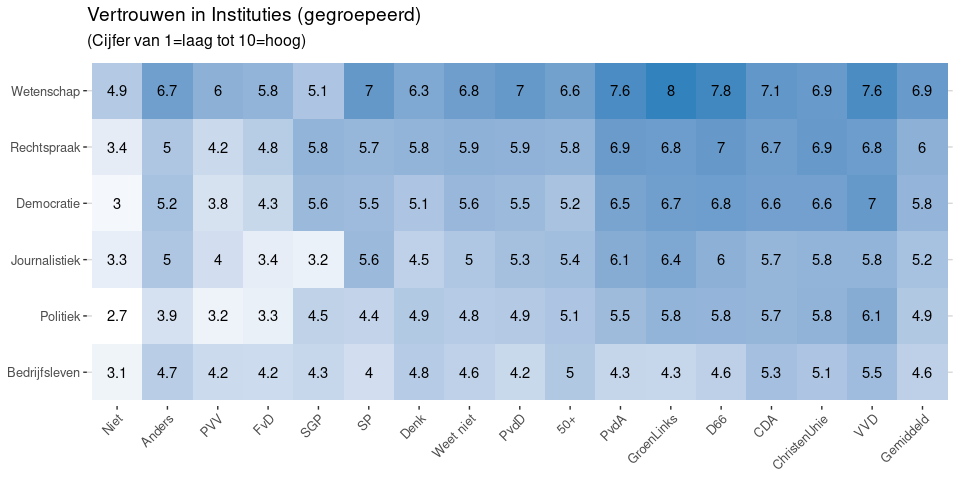
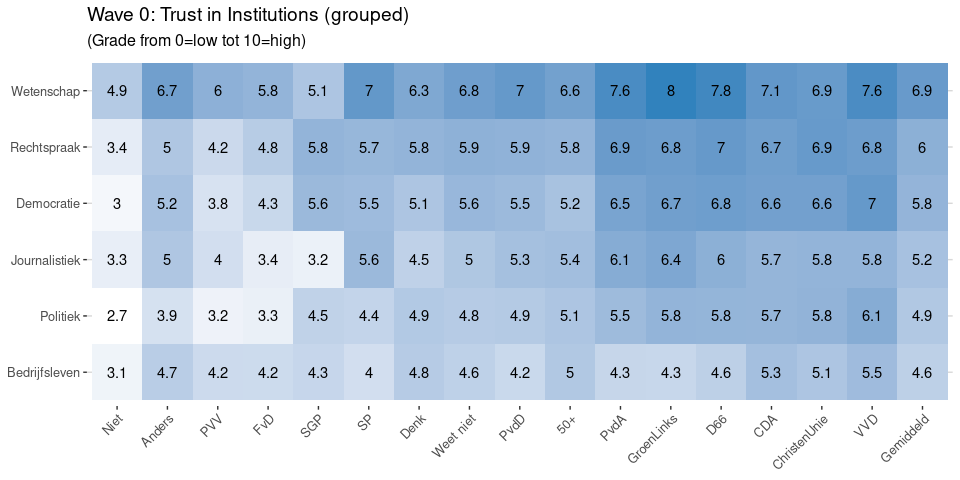
Update prewave report

Changed region(s): [[0.0938, 0.0, 0.4375, 0.125]]

diff --git a/docs/reports/prewave_exploration.md b/docs/reports/prewave_exploration.md
@@ -1,0 +1,48 @@
+VU 2021 Election Study: Exploration of media use and vote intention
+before the campaign
+================
+Wouter van Atteveldt, Nel Ruigrok, Mariken van der Velden
+
+  - [Media Use by Vote Intention](#media-use-by-vote-intention)
+  - [Trust in Media](#trust-in-media)
+  - [Trust in Institutions](#trust-in-institutions)
+      - [Trust in democracy](#trust-in-democracy)
+
+# Media Use by Vote Intention
+
+![](figures/wave0-media-party-1.png)<!-- -->Download data: [Wave 0:
+Stemintentie en
+mediagebruik](figures/Wave_0_Stemintentie_en_mediagebruik.csv)
+
+![](figures/wave0-media-party-specific-1.png)<!-- -->Download data:
+[Wave 0: Vote intention and news:
+Newspapers](figures/Wave_0_Vote_intention_and_news_Newspapers.csv)![](figures/wave0-media-party-specific-2.png)<!-- -->Download
+data: [Wave 0: Vote intention and news:
+TV](figures/Wave_0_Vote_intention_and_news_TV.csv)![](figures/wave0-media-party-specific-3.png)<!-- -->Download
+data: [Wave 0: Vote intention and news:
+Online](figures/Wave_0_Vote_intention_and_news_Online.csv)![](figures/wave0-media-party-specific-4.png)<!-- -->Download
+data: [Wave 0: Vote intention and news:
+Social](figures/Wave_0_Vote_intention_and_news_Social.csv)![](figures/wave0-media-party-specific-5.png)<!-- -->Download
+data: [Wave 0: Vote intention and news:
+Apps](figures/Wave_0_Vote_intention_and_news_Apps.csv)
+
+# Trust in Media
+
+![](figures/wave0-trust-media-1.png)<!-- -->Download data: [Wave 0:
+Trust in Media](figures/Wave_0_Trust_in_Media.csv)
+
+# Trust in Institutions
+
+![](figures/wave0-trust-institution-1.png)<!-- -->Download data: [Wave
+0: Trust in Instituties](figures/Wave_0_Trust_in_Instituties.csv)
+
+![](figures/wave0-trust-group-1.png)<!-- -->Download data: [Wave 0:
+Trust in Institutions
+(grouped)](figures/Wave_0_Trust_in_Institutions_grouped_.csv)
+
+## Trust in democracy
+
+![](figures/wave0-democracy-1.png)<!-- -->
+
+![](figures/wave0-democracy2-1.png)<!-- -->Download data: [Wave 0: Trust
+in democracy](figures/Wave_0_Trust_in_democracy.csv)
